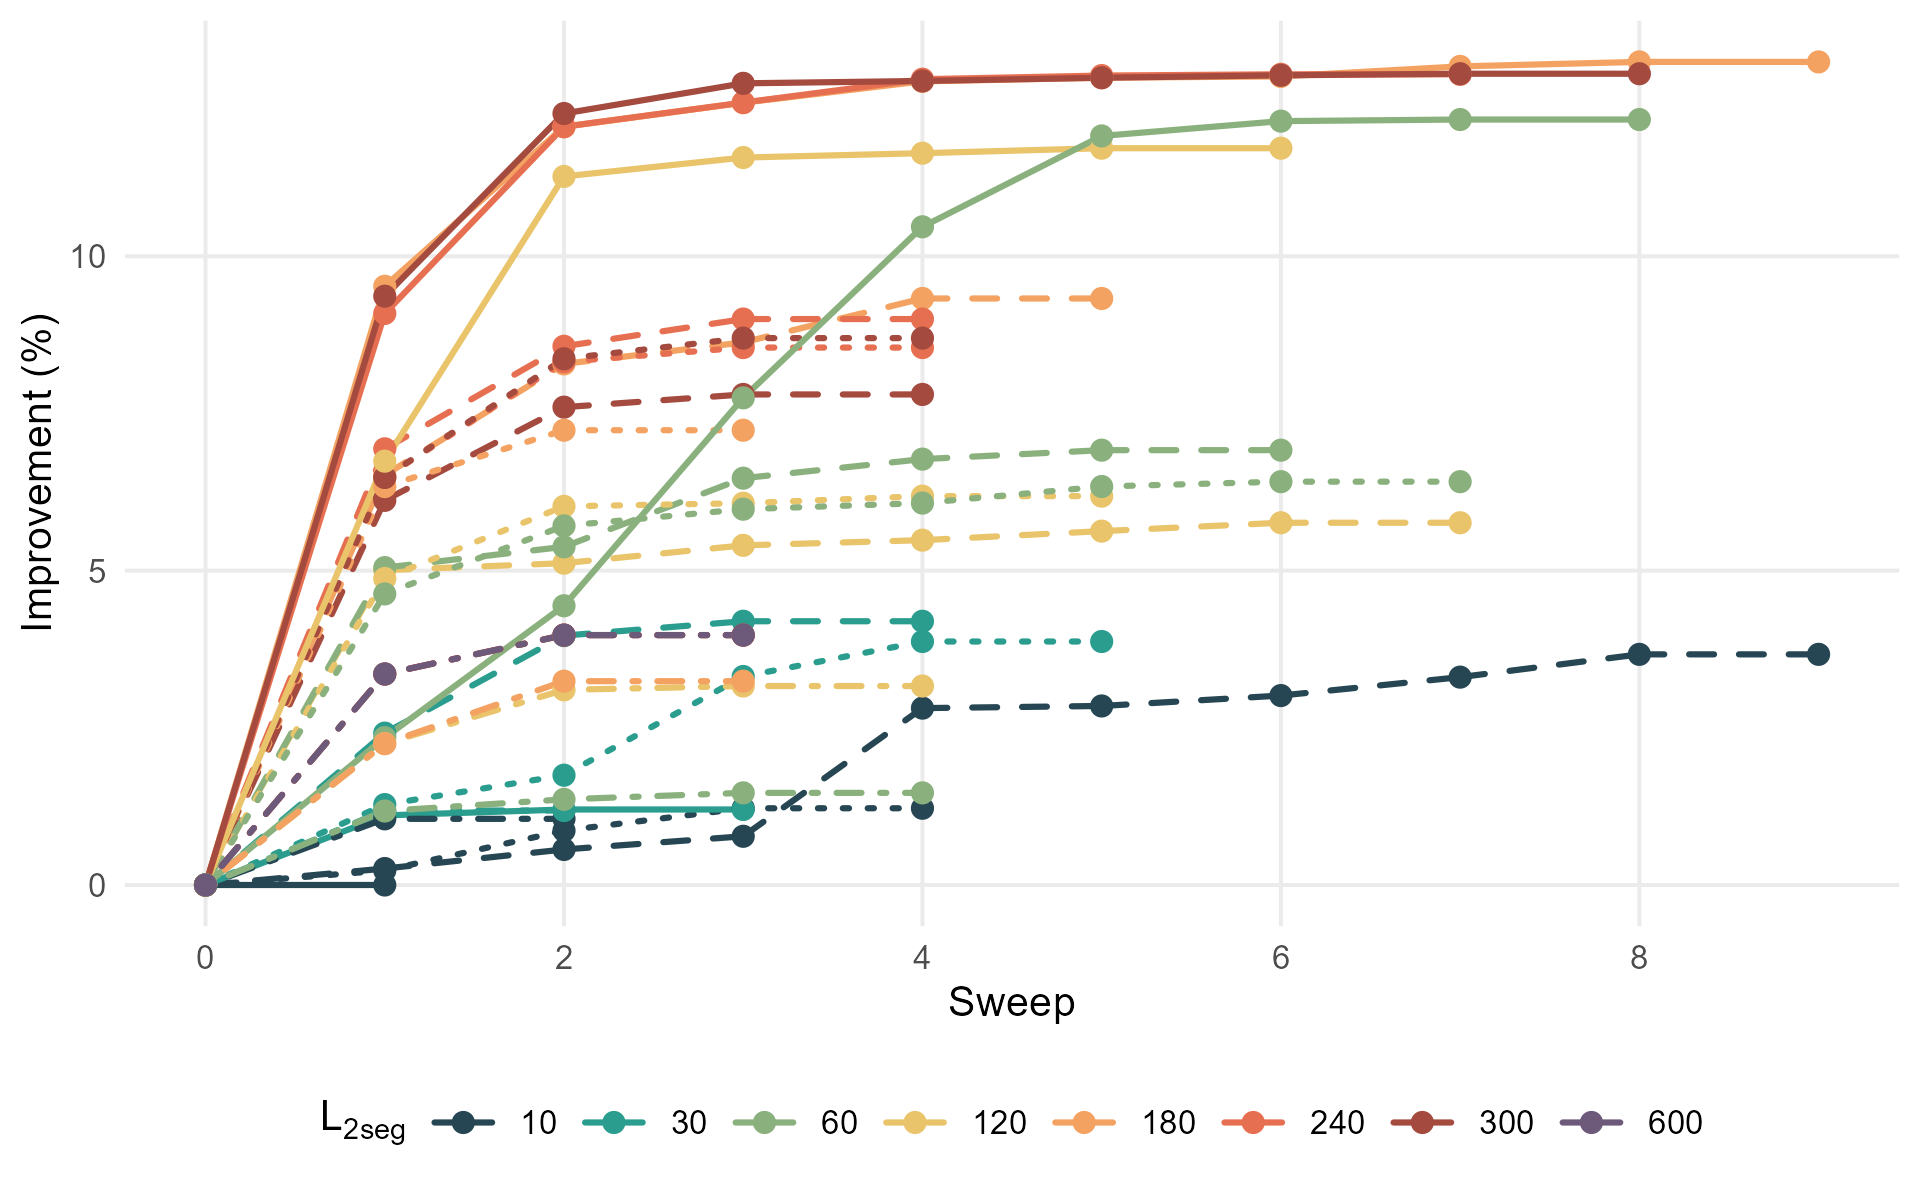
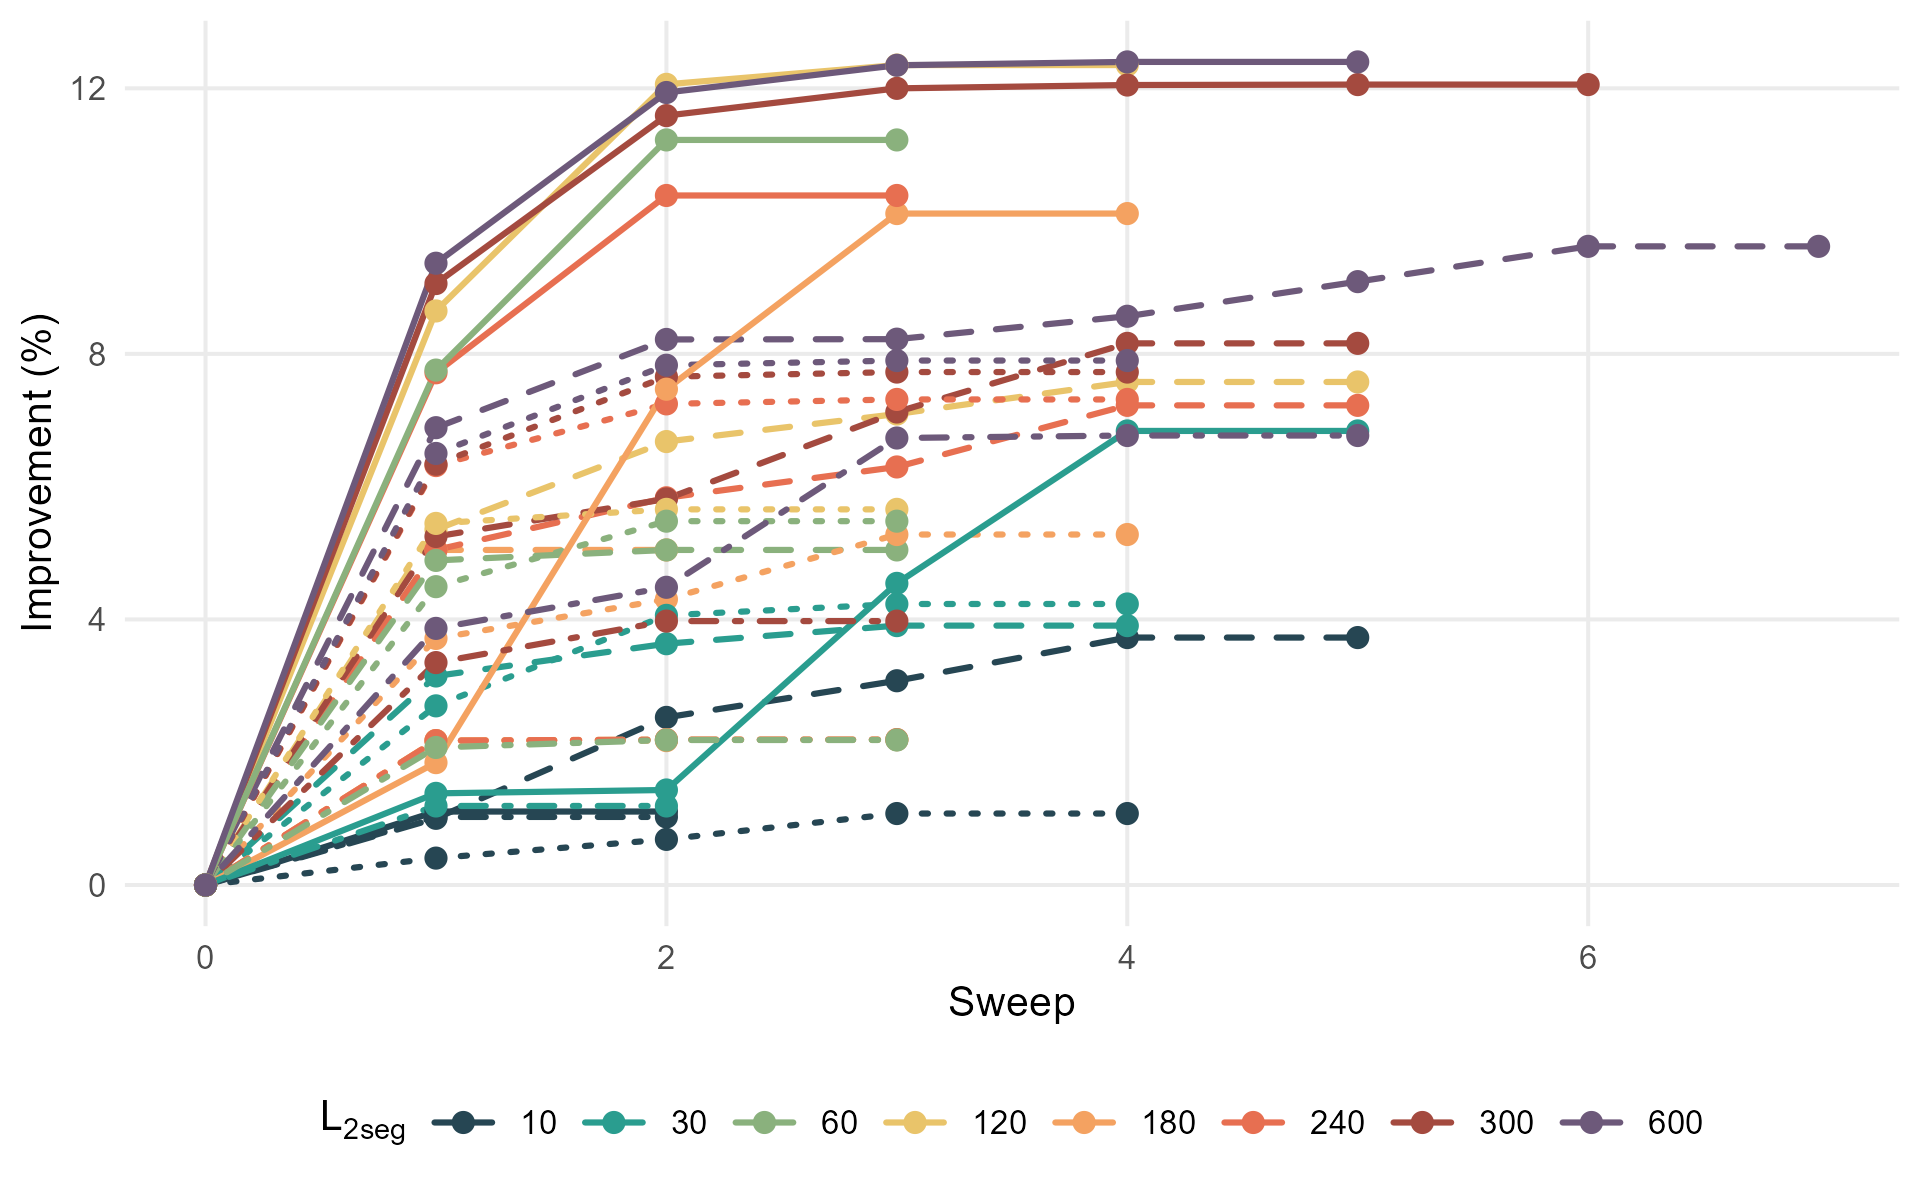
feat: update refinement sweep table with new data for MH-NN, MH-CI, MH-GE, and MH-OPT methods

diff --git a/sol/refinement_sweep_C_table.tex b/sol/refinement_sweep_C_table.tex
@@ -7,35 +7,38 @@
 Method & L2seg & Passes & Runtime (hr) & Attempts & Accepted & S moved total & S moved median & S moved max & Transit nm & Delta nm & Delta pct
 \\
 \midrule
-MH-NN & 10 & 1 & 0.08 & 13 & 0 & 0 & 0 & 0 & 5500.3 & 0 & 0.0\\%
-MH-NN & 30 & 3 & 0.41 & 21 & 3 & 13 & 3 & 10 & 5434.2 & 66 & 1.2\\%
-MH-NN & 60 & 8 & 2.08 & 66 & 30 & 381 & 40 & 133 & 4830.6 & 670 & 12.2\\%
-MH-NN & 120 & 6 & 2.77 & 48 & 20 & 275 & 4 & 186 & 4855.7 & 645 & 11.7\\%
-MH-NN & 180 & 9 & 5.42 & 74 & 30 & 287 & 10 & 198 & 4780.2 & 720 & 13.1\\%
-MH-NN & 240 & 7 & 5.05 & 55 & 23 & 304 & 6 & 216 & 4791.1 & 709 & 12.9\\%
-MH-NN & 300 & 8 & 6.33 & 59 & 25 & 270 & 8 & 203 & 4790.5 & 710 & 12.9\\%
-MH-CI & 10 & 9 & 0.33 & 53 & 12 & 166 & 1 & 43 & 4983.1 & 190 & 3.7\\%
-MH-CI & 30 & 4 & 0.52 & 30 & 9 & 113 & 16 & 80 & 4955.8 & 217 & 4.2\\%
-MH-CI & 60 & 6 & 1.82 & 52 & 19 & 119 & 18 & 46 & 4815.1 & 358 & 6.9\\%
-MH-CI & 120 & 7 & 3.47 & 53 & 17 & 86 & 5 & 42 & 4874.8 & 298 & 5.8\\%
-MH-CI & 180 & 5 & 4.46 & 54 & 27 & 367 & 63 & 162 & 4690.3 & 483 & 9.3\\%
-MH-CI & 240 & 4 & 4.21 & 40 & 20 & 199 & 30 & 138 & 4707.2 & 466 & 9.0\\%
-MH-CI & 300 & 4 & 5.74 & 43 & 20 & 212 & 36 & 141 & 4769.2 & 404 & 7.8\\%
-MH-GE & 10 & 4 & 0.11 & 19 & 3 & 19 & 6 & 7 & 4799.7 & 59 & 1.2\\%
-MH-GE & 30 & 5 & 0.72 & 40 & 11 & 134 & 22 & 67 & 4670.8 & 188 & 3.9\\%
-MH-GE & 60 & 7 & 2.22 & 58 & 19 & 180 & 2 & 111 & 4547.2 & 312 & 6.4\\%
-MH-GE & 120 & 5 & 2.46 & 40 & 17 & 273 & 12 & 180 & 4558.4 & 301 & 6.2\\%
-MH-GE & 180 & 3 & 2.38 & 34 & 17 & 260 & 49 & 211 & 4507.5 & 351 & 7.2\\%
-MH-GE & 240 & 4 & 4.76 & 44 & 22 & 318 & 53 & 212 & 4443.6 & 415 & 8.5\\%
-MH-GE & 300 & 4 & 5.84 & 44 & 23 & 320 & 54 & 212 & 4436.3 & 423 & 8.7\\%
-MH-OPT & 10 & 2 & 0.09 & 16 & 2 & 7 & 4 & 7 & 4289.6 & 46 & 1.1\\%
-MH-OPT & 30 & 2 & 0.27 & 19 & 4 & 14 & 7 & 14 & 4283.8 & 51 & 1.2\\%
-MH-OPT & 60 & 4 & 0.67 & 23 & 6 & 23 & 3 & 17 & 4271.6 & 64 & 1.5\\%
-MH-OPT & 120 & 4 & 2.07 & 36 & 14 & 82 & 14 & 55 & 4198.0 & 137 & 3.2\\%
-MH-OPT & 180 & 3 & 2.58 & 31 & 11 & 66 & 11 & 55 & 4194.6 & 141 & 3.2\\%
-MH-OPT & 240 & 3 & 2.55 & 27 & 11 & 79 & 7 & 72 & 4162.9 & 172 & 4.0\\%
-MH-OPT & 300 & 3 & 3.10 & 27 & 11 & 79 & 7 & 72 & 4162.9 & 172 & 4.0\\%
-MH-OPT & 600 & 3 & 5.83 & 27 & 11 & 79 & 7 & 72 & 4162.9 & 172 & 4.0\\%
+MH-NN & 10 & 2 & 0.06 & 17 & 2 & 3 & 2 & 3 & 5439.4 & 61 & 1.1\\%
+MH-NN & 30 & 5 & 0.29 & 28 & 7 & 125 & 14 & 92 & 5124.1 & 376 & 6.8\\%
+MH-NN & 60 & 3 & 0.70 & 38 & 17 & 248 & 57 & 191 & 4883.0 & 617 & 11.2\\%
+MH-NN & 120 & 4 & 1.22 & 37 & 16 & 262 & 28 & 206 & 4821.0 & 679 & 12.4\\%
+MH-NN & 180 & 4 & 2.03 & 37 & 15 & 254 & 49 & 156 & 4944.0 & 556 & 10.1\\%
+MH-NN & 240 & 3 & 2.18 & 33 & 11 & 239 & 49 & 190 & 4929.0 & 571 & 10.4\\%
+MH-NN & 300 & 6 & 2.81 & 41 & 16 & 249 & 14 & 190 & 4837.2 & 663 & 12.1\\%
+MH-NN & 600 & 5 & 5.63 & 42 & 17 & 261 & 17 & 203 & 4818.4 & 682 & 12.4\\%
+MH-CI & 10 & 5 & 0.09 & 30 & 7 & 134 & 30 & 51 & 4980.0 & 193 & 3.7\\%
+MH-CI & 30 & 4 & 0.24 & 27 & 6 & 75 & 14 & 47 & 4970.7 & 202 & 3.9\\%
+MH-CI & 60 & 3 & 0.51 & 27 & 7 & 50 & 3 & 47 & 4911.8 & 261 & 5.0\\%
+MH-CI & 120 & 5 & 1.39 & 39 & 16 & 209 & 30 & 90 & 4780.9 & 392 & 7.6\\%
+MH-CI & 180 & 2 & 1.24 & 23 & 6 & 45 & 22 & 45 & 4911.8 & 261 & 5.0\\%
+MH-CI & 240 & 5 & 2.47 & 37 & 14 & 143 & 34 & 56 & 4799.1 & 374 & 7.2\\%
+MH-CI & 300 & 5 & 3.55 & 43 & 19 & 171 & 45 & 58 & 4750.8 & 422 & 8.2\\%
+MH-CI & 600 & 7 & 6.43 & 43 & 18 & 220 & 12 & 128 & 4675.2 & 498 & 9.6\\%
+MH-GE & 10 & 4 & 0.08 & 25 & 6 & 88 & 14 & 60 & 4806.7 & 52 & 1.1\\%
+MH-GE & 30 & 4 & 0.35 & 35 & 12 & 158 & 30 & 98 & 4653.3 & 206 & 4.2\\%
+MH-GE & 60 & 3 & 0.65 & 32 & 12 & 255 & 86 & 169 & 4592.7 & 266 & 5.5\\%
+MH-GE & 120 & 3 & 0.95 & 28 & 11 & 137 & 8 & 129 & 4584.1 & 275 & 5.7\\%
+MH-GE & 180 & 4 & 1.95 & 37 & 15 & 278 & 48 & 183 & 4602.5 & 257 & 5.3\\%
+MH-GE & 240 & 4 & 2.45 & 35 & 18 & 236 & 14 & 207 & 4503.6 & 355 & 7.3\\%
+MH-GE & 300 & 4 & 2.87 & 36 & 17 & 264 & 26 & 211 & 4483.6 & 375 & 7.7\\%
+MH-GE & 600 & 4 & 5.58 & 35 & 17 & 303 & 46 & 212 & 4475.1 & 384 & 7.9\\%
+MH-OPT & 10 & 2 & 0.04 & 16 & 2 & 8 & 4 & 8 & 4290.7 & 44 & 1.0\\%
+MH-OPT & 30 & 2 & 0.15 & 19 & 4 & 14 & 7 & 14 & 4283.6 & 52 & 1.2\\%
+MH-OPT & 60 & 3 & 0.47 & 26 & 8 & 62 & 8 & 54 & 4240.5 & 95 & 2.2\\%
+MH-OPT & 120 & 3 & 0.81 & 24 & 7 & 57 & 4 & 53 & 4240.2 & 95 & 2.2\\%
+MH-OPT & 180 & 2 & 1.07 & 22 & 6 & 53 & 26 & 53 & 4240.9 & 94 & 2.2\\%
+MH-OPT & 240 & 3 & 1.60 & 24 & 7 & 57 & 4 & 53 & 4240.2 & 95 & 2.2\\%
+MH-OPT & 300 & 3 & 2.18 & 29 & 12 & 83 & 9 & 74 & 4162.9 & 172 & 4.0\\%
+MH-OPT & 600 & 5 & 6.69 & 46 & 21 & 236 & 42 & 117 & 4041.7 & 294 & 6.8\\%
 \bottomrule
 \end{tabular}
 \end{table}
